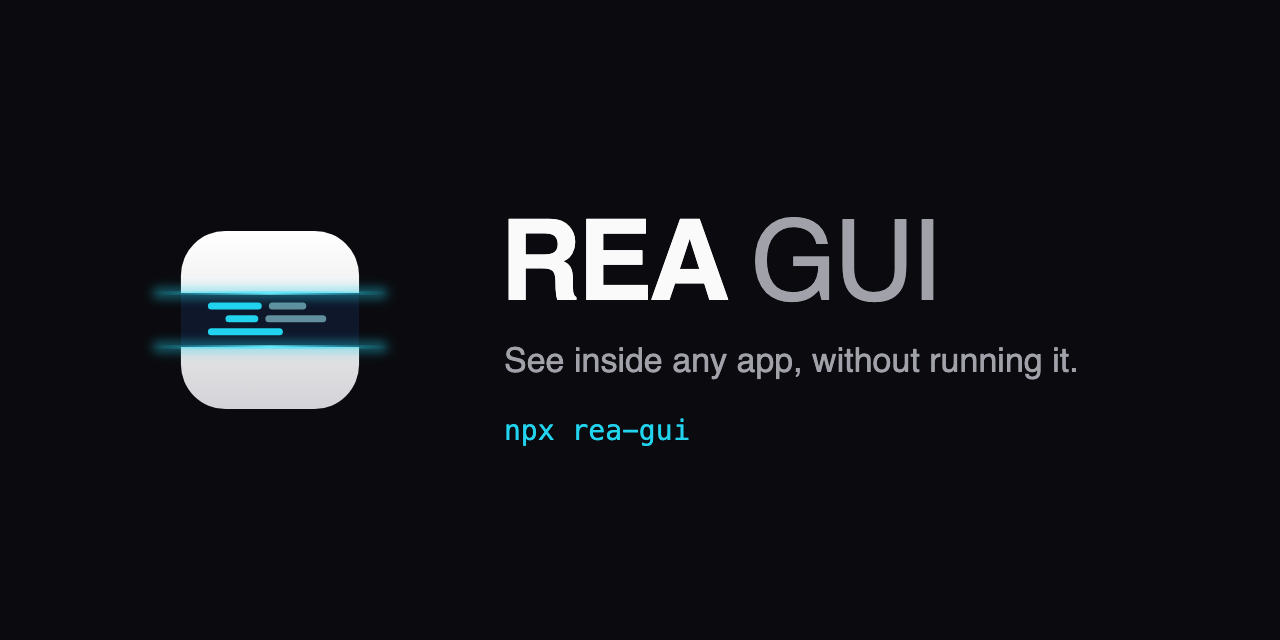
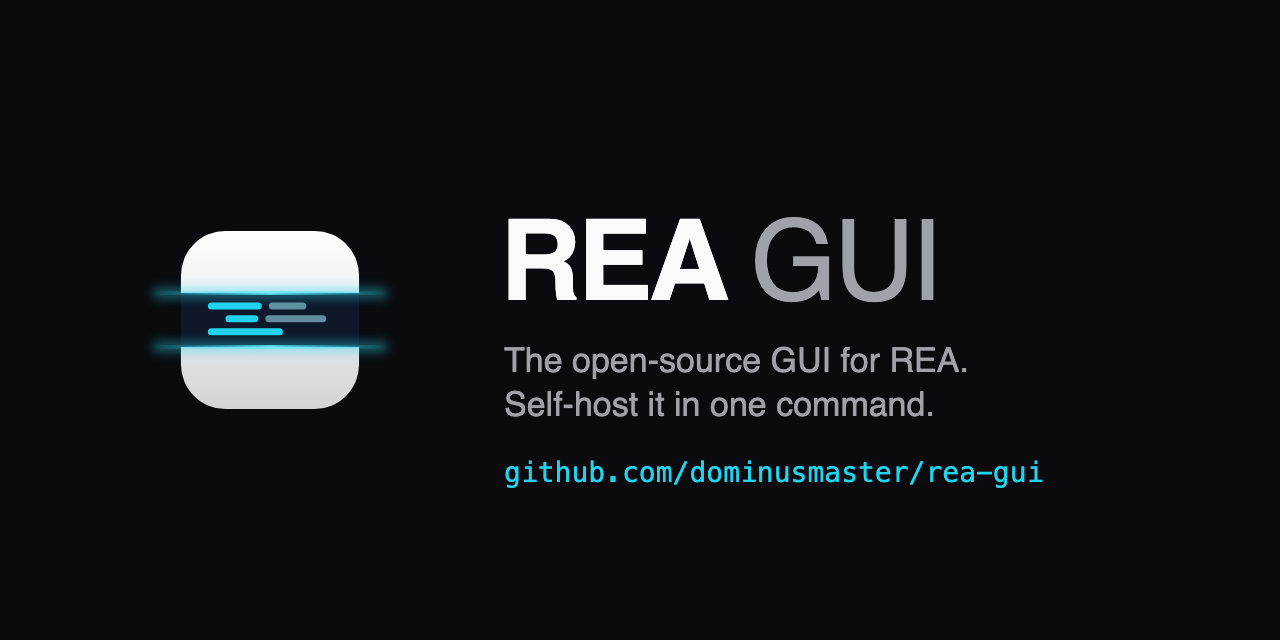
Aim REA GUI branding at self-hosters
REA GUI is the open-source, self-hosted GUI for REA. Reword the README intro and
social preview for that audience and point the card at the repo instead of an
unpublished npm command. Consumer lines like "see inside any app" are kept for
the hosted service.

Changed region(s): [[0.375, 0.5312, 0.8438, 0.6875], [0.375, 0.7188, 0.8125, 0.7812]]

diff --git a/rea-gui/brand/src/gen.py b/rea-gui/brand/src/gen.py
@@ -67,8 +67,9 @@ files = {
     "logo-light.svg": svg("0 0 1200 320", f'<rect width="1200" height="320" fill="#ffffff"/>' + icon_at(64, 64, 192) + wordmark(296, 200, 120, "#09090b", "#71717a")),
     "social.svg": svg("0 0 1280 640",
         f'<rect width="1280" height="640" fill="{INK}"/>' + icon_at(120, 170, 300) + wordmark(500, 300, 112, "#fafafa", "#a1a1aa")
-        + f'<text x="504" y="372" font-family="{FONT}" font-size="34" fill="#a1a1aa">See inside any app, without running it.</text>'
-        + f'<text x="504" y="440" font-family="ui-monospace, \'SF Mono\', Menlo, monospace" font-size="28" fill="{CYAN}">npx rea-gui</text>'),
+        + f'<text x="504" y="372" font-family="{FONT}" font-size="34" fill="#a1a1aa">The open-source GUI for REA.</text>'
+        + f'<text x="504" y="416" font-family="{FONT}" font-size="34" fill="#a1a1aa">Self-host it in one command.</text>'
+        + f'<text x="504" y="482" font-family="ui-monospace, \'SF Mono\', Menlo, monospace" font-size="28" fill="{CYAN}">github.com/dominusmaster/rea-gui</text>'),
 }
 for name, text in files.items():
     (OUT / name).write_text(text)

diff --git a/rea-gui/brand/README.md b/rea-gui/brand/README.md
@@ -3,8 +3,12 @@
 # REA GUI brand
 
 **The mark: Scan.** An app tile with a scan beam passing through it. Inside the beam,
-the app's code shows through. It says what REA GUI does: see inside any app without
-running it.
+the app's code shows through: REA GUI shows what REA finds inside an app.
+
+**Voice.** REA GUI is the open-source, self-hosted GUI for REA. Talk to REA users and
+self-hosters: open source, runs on your machine, one command to start, your data stays
+with you. Lines aimed at a general audience, such as "see inside any app", belong to
+REAG (the hosted cloud service), not REA GUI.
 
 ## Files
 

diff --git a/README.md b/README.md
@@ -2,9 +2,9 @@
 
 # REA GUI
 
-A visual interface for [REA: Reverse Engineer Anything](https://github.com/morluto/rea).
-Open any app and see what's inside, without executing it. Run it on your computer,
-or deploy it to a server with Docker.
+The open-source GUI for [REA: Reverse Engineer Anything](https://github.com/morluto/rea).
+Self-host it: run it on your own computer in one command, or deploy it to your own
+server with Docker. Nothing you analyze is executed.
 
 ```bash
 git clone https://github.com/dominusmaster/rea-gui.git
